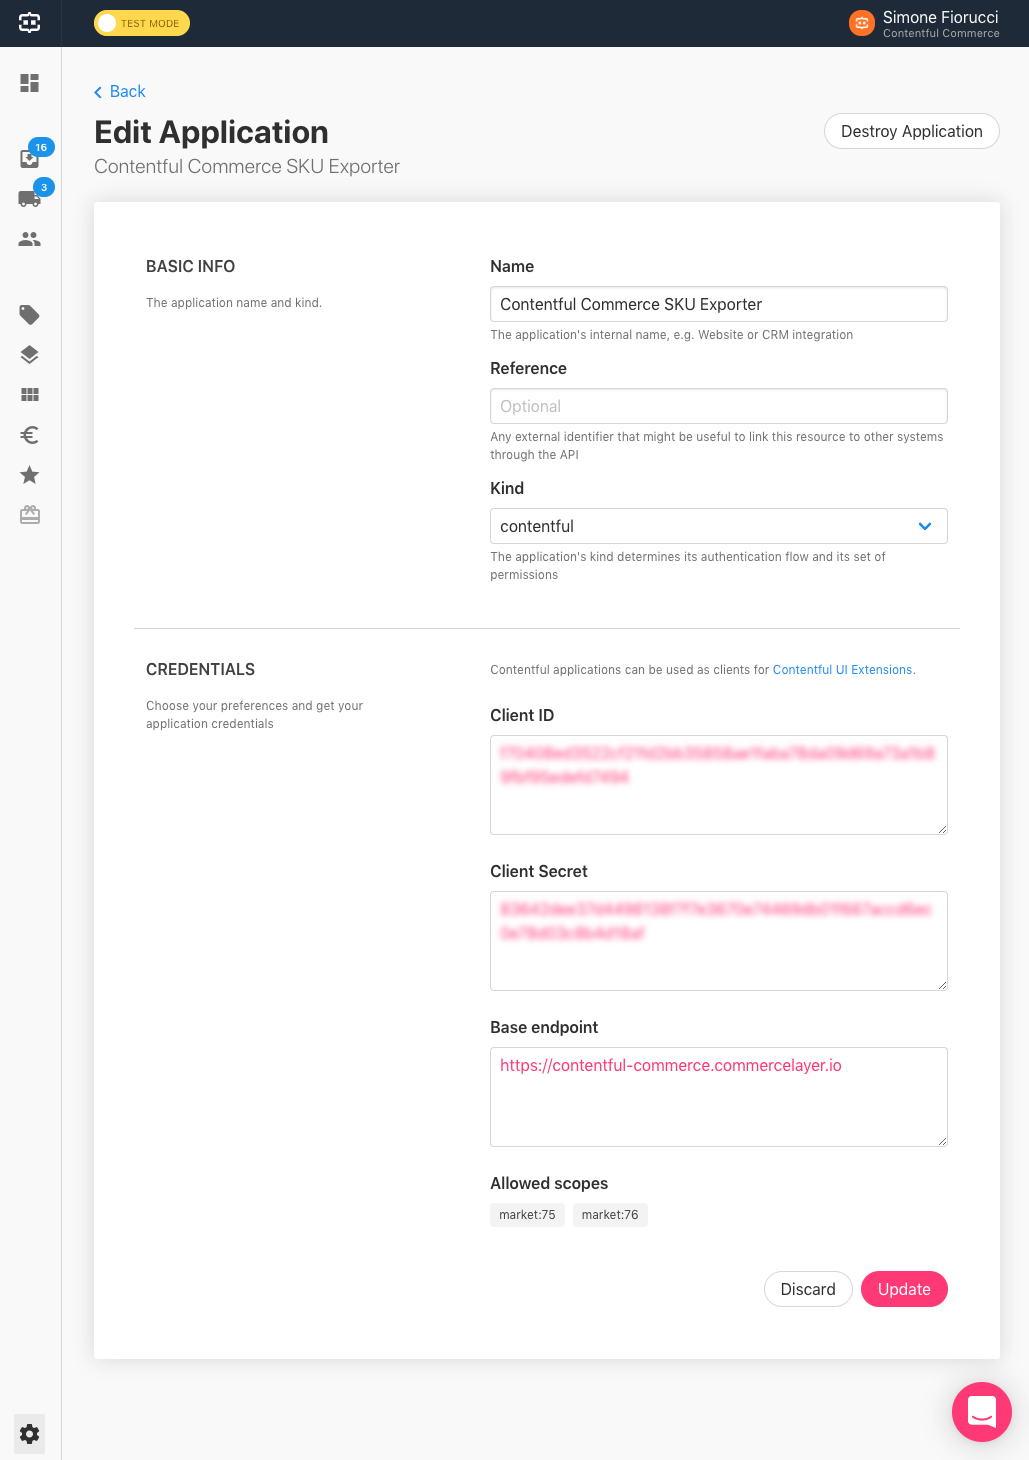
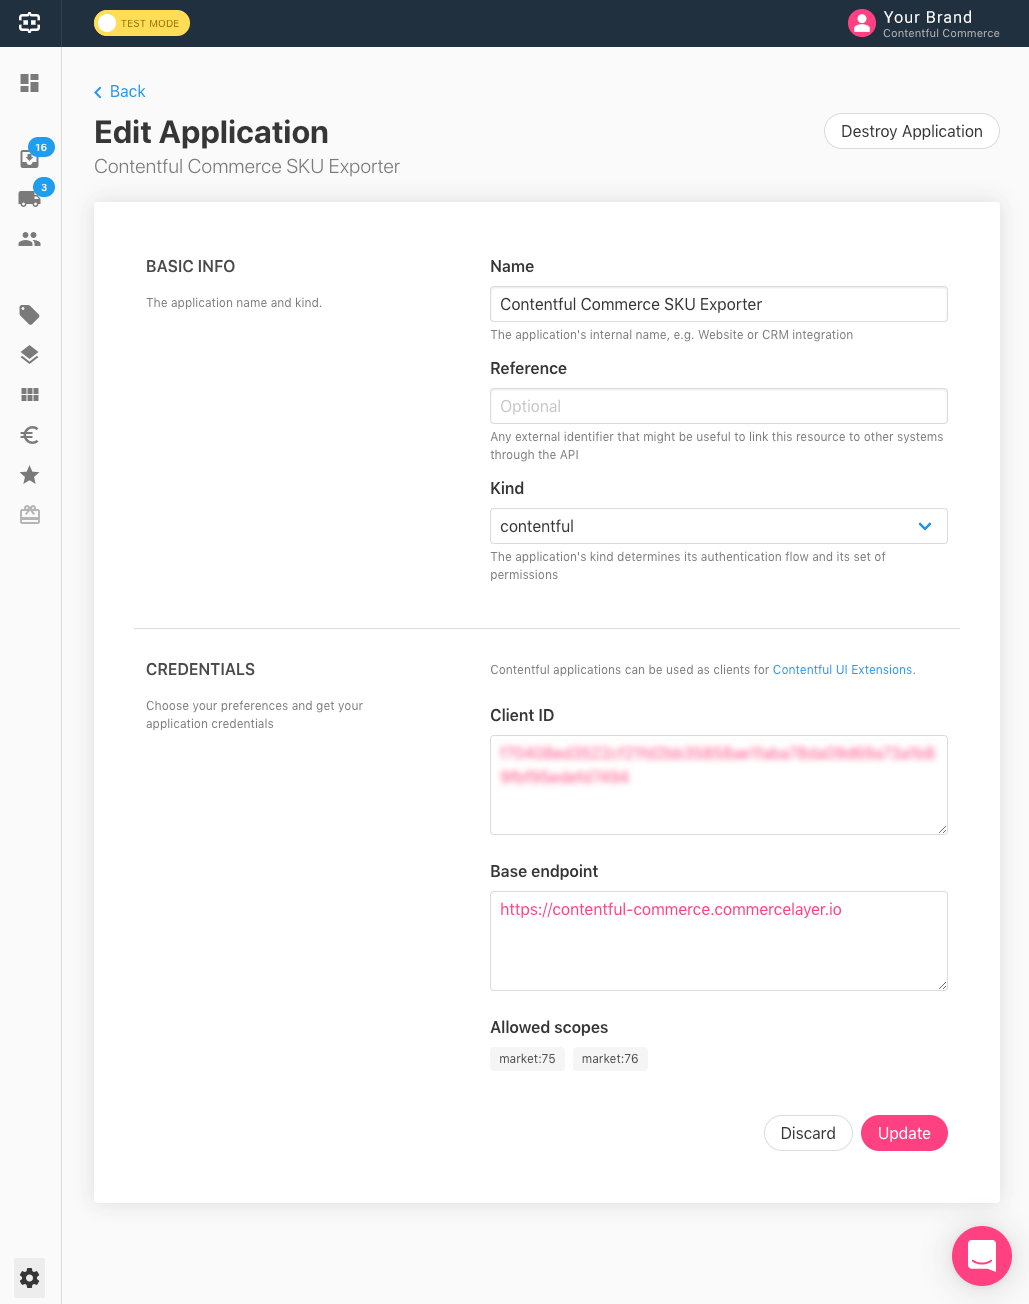
docs: removed any reference to client_secret from tutorial

diff --git a/README.md b/README.md
@@ -107,7 +107,6 @@ Then create the `~/.commercelayer-cli.yml` file on your local environment and st
 commercelayer:
   site: <your-base-endpoint>
   client_id: <your-client-id>
-  client_secret: <your-client-secret>
 contentful:
   space: <your-space-id>
   access_token: <your-content-management-access-token>
@@ -151,7 +150,7 @@ CONTENTFUL_SPACE_ID=YOUR_SPACE_ID
 CONTENTFUL_DELIVERY_ACCESS_TOKEN=YOUR_ACCESS_TOKEN
 ```
 
-Add the following code to `gatsby-config.js`:
+Add the following code to [`gatsby-config.js`](./gatsby-config.js):
 
 ```
 {
@@ -171,7 +170,7 @@ What we need now is to generate a page for each catalogue, category and product,
 
 Let's use this [Gatsby tutorial](https://www.gatsbyjs.org/tutorial/part-seven/) on how to programmatically create pages from data, as a starter. The custom generator will iterate over the imported data and create all the required pages. 
 
-Add the following code to `gatsby-node.js`:
+Add the following code to [`gatsby-node.js`](./gatsby-node.js):
 
 ```
 // Read all data from Contentful
@@ -355,6 +354,7 @@ export const query = graphql`
   }
 `
 ```
+
 Follow the example above to create the catalogue and product page templates. Then run the following command get the first version of the site:
 
 ```
@@ -383,14 +383,15 @@ To start selling, we need a Commerce Layer sales channel application. Just get t
 
 ### Install the Gatsby Plugin
 
-We made a [gatsby plugin](https://www.gatsbyjs.org/packages/gatsby-plugin-commercelayer) of course! Let's add it to our project, using npm:
+Let's use our [official plugin](https://www.gatsbyjs.org/packages/gatsby-plugin-commercelayer) to integrate Commerce Layer API into the Gatsby site. Add it to your project, using npm:
 
 ```
 $ npm install gatsby-plugin-commercelayer
 ```
 
+Add the following code to [`gatsby-config.js`](./gatsby-config.js):
+
 ```
-// gatsby-config.js
 modules.export = {
 	// ...
   plugins: [
@@ -401,13 +402,13 @@ modules.export = {
 
 ```
 
-Add the configuration about Commerce Layer to [`Layout.tsx`](./src/components/)
+Add the configuration info of your Commerce Layer sales channel application (client ID, base endpoint, the ID of the market you want to put in scope, etc.) to [`Layout.tsx`](./src/components/Layout.tsx)
 
 ```
   // ...
   <CLayer.Config
     baseUrl='https://yourdomain.commercelayer.io'
-    clientId='YOUR_CLIENT_ID'
+    clientId='your-cliend-if'
     marketId={marketId}
     countryCode={shipping ? shipping.toUpperCase() : 'US'}
     languageCode={
@@ -423,10 +424,9 @@ Add the configuration about Commerce Layer to [`Layout.tsx`](./src/components/)
 
 ### Add prices
 
-To make the prices appear, add the following snippets to the products and product templates. The library will look into the page and populate the price amounts for each element that contains a *skuCode* property:
+To make the prices appear, add the following snippets to [Product.tsx](./src/components/Product.tsx) and [Products.tsx](./src/components/Products.tsx). The JS library will look into the page and populate the price amounts for each element that contains a `skuCode` property:
 
 ```
-// ./src/components/Product.tsx
 import * as CLayer from 'commercelayer-react'
 
 // Your React Component
@@ -439,7 +439,7 @@ return (
 
 ### Add availability messages
 
-Our libray gives us the possibility to check the availability with few simple components that now we have to add them in [Product.tsx](./src/components/Product.tsx)
+What we need now is to check the availability of the selected product on Commerce Layer and activate the purchasing functions. When a variant option is selected, the `.available-message` will be populated with the variant's availability information. When it goes out of stock the `.unavailable-message` will be shown. To do that, add these few simple components to [Product.tsx](./src/components/Product.tsx)
 ```
 // ...
 
@@ -470,10 +470,11 @@ return (
 
 ### Add a shopping bag
 
-The final step is to add the required markup to the DOM to enable the shopping bag and the shopping bag preview components:
+The final step is to add the required markup to the DOM to enable the shopping bag and the shopping bag preview. To do that, add the following code to [ShoppingBagPreview.tsx](./src/components/ShoppingBagPreview.tsx), [ShoppingBag.tsx](./src/components/ShoppingBag.tsx), [Layout.tsx](./src/components/Layout.tsx), and [Product.tsx](./src/components/Product.tsx):
 
-[ShoppingBagPreview.tsx](./src/components/ShoppingBagPreview.tsx)
 ```
+// ShoppingBagPreview.tsx
+
 const ShoppingBagPreview = ({ onClick }) => {
   return (
     <a className='navbar-item' id='shopping-bag-toggle' onClick={onClick}>
@@ -490,41 +491,45 @@ const ShoppingBagPreview = ({ onClick }) => {
   )
 }
 ```
-[ShoppingBag.tsx](./src/components/ShoppingBag.tsx)
+
 ```
-  // ...
-  <CLayer.ShoppingBagTotal />
-  // ...
-  <CLayer.ShoppingBagItems
-    ItemsContainerTag='table'
-    itemTemplate={
-      <table id='shopping-bag-table' className='table is-fullwidth'>
-        <tr>
-          <td className='shopping-bag-col shopping-bag-col-image'>
-            <CLayer.ShoppingBagItemImage />
-          </td>
-          <td className='shopping-bag-col shopping-bag-col-name'>
-            <CLayer.ShoppingBagItemName />
-          </td>
-          <td className='shopping-bag-col shopping-bag-col-qty'>
-            <CLayer.ShoppingBagItemQtyContainer />
-          </td>
-          <td className='shopping-bag-col shopping-bag-col-total'>
-            <CLayer.ShoppingBagItemUnitAmount />
-          </td>
-          <td className='shopping-bag-col shopping-bag-col-remove'>
-            <CLayer.ShoppingBagItemRemove />
-          </td>
-        </tr>
-      </table>
-    }
-  />
-  // ...
-  <CLayer.Checkout className={'button is-fullwidth is-success'} />
-  // ...
+// ShoppingBag.tsx
+
+// ...
+<CLayer.ShoppingBagTotal />
+// ...
+<CLayer.ShoppingBagItems
+  ItemsContainerTag='table'
+  itemTemplate={
+    <table id='shopping-bag-table' className='table is-fullwidth'>
+      <tr>
+        <td className='shopping-bag-col shopping-bag-col-image'>
+          <CLayer.ShoppingBagItemImage />
+        </td>
+        <td className='shopping-bag-col shopping-bag-col-name'>
+          <CLayer.ShoppingBagItemName />
+        </td>
+        <td className='shopping-bag-col shopping-bag-col-qty'>
+          <CLayer.ShoppingBagItemQtyContainer />
+        </td>
+        <td className='shopping-bag-col shopping-bag-col-total'>
+          <CLayer.ShoppingBagItemUnitAmount />
+        </td>
+        <td className='shopping-bag-col shopping-bag-col-remove'>
+          <CLayer.ShoppingBagItemRemove />
+        </td>
+      </tr>
+    </table>
+  }
+/>
+// ...
+<CLayer.Checkout className={'button is-fullwidth is-success'} />
+// ...
 ```
-[Layout.tsx](./src/components/Layout.tsx)
+
 ```
+// Layout.tsx
+
 // ...
 <ShoppingBag
   lang={language}
@@ -533,8 +538,10 @@ const ShoppingBagPreview = ({ onClick }) => {
 />
 // ...
 ```
-[Product.tsx](./src/components/Product.tsx)
+
 ```
+// Product.tsx
+
 // ...
 <CLayer.AddToBag
   className={`add-to-bag button is-success is-fullwidth`}
@@ -545,7 +552,7 @@ const ShoppingBagPreview = ({ onClick }) => {
 />
 // ...
 ```
-Regardless of the style, the relevant elements are the following:
+Regardless of the style, the relevant elements used by the components are the following:
 
 - **#shopping-bag:** the shopping bag container
 - **#shopping-bag-toggle:** toggles the ".open" class to the shopping bag container
